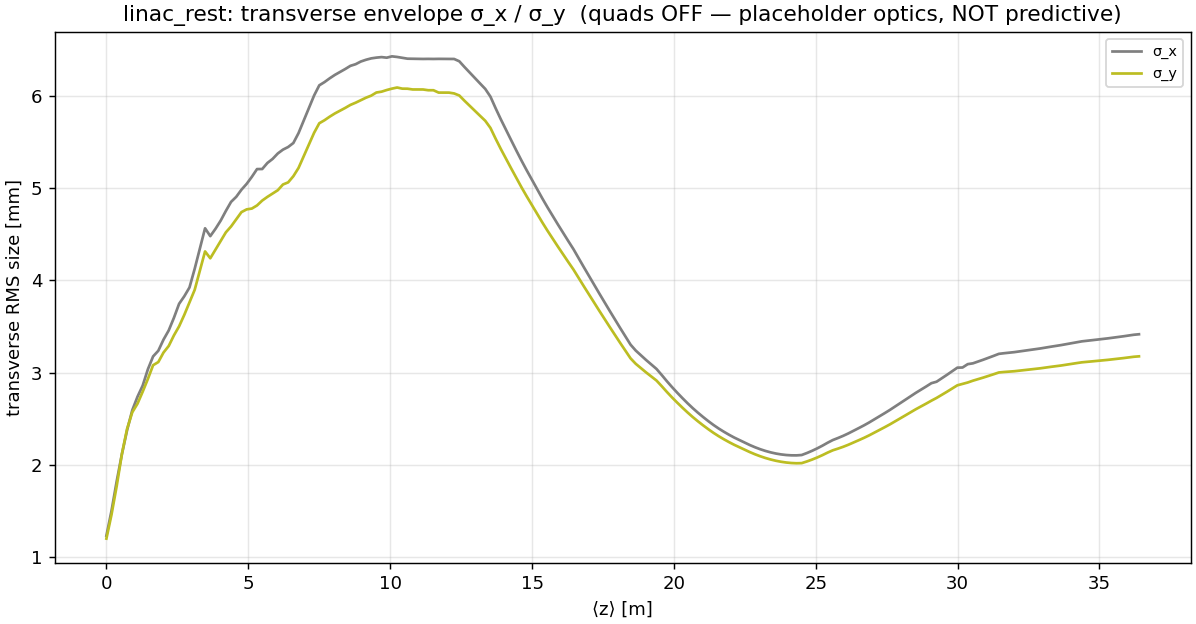
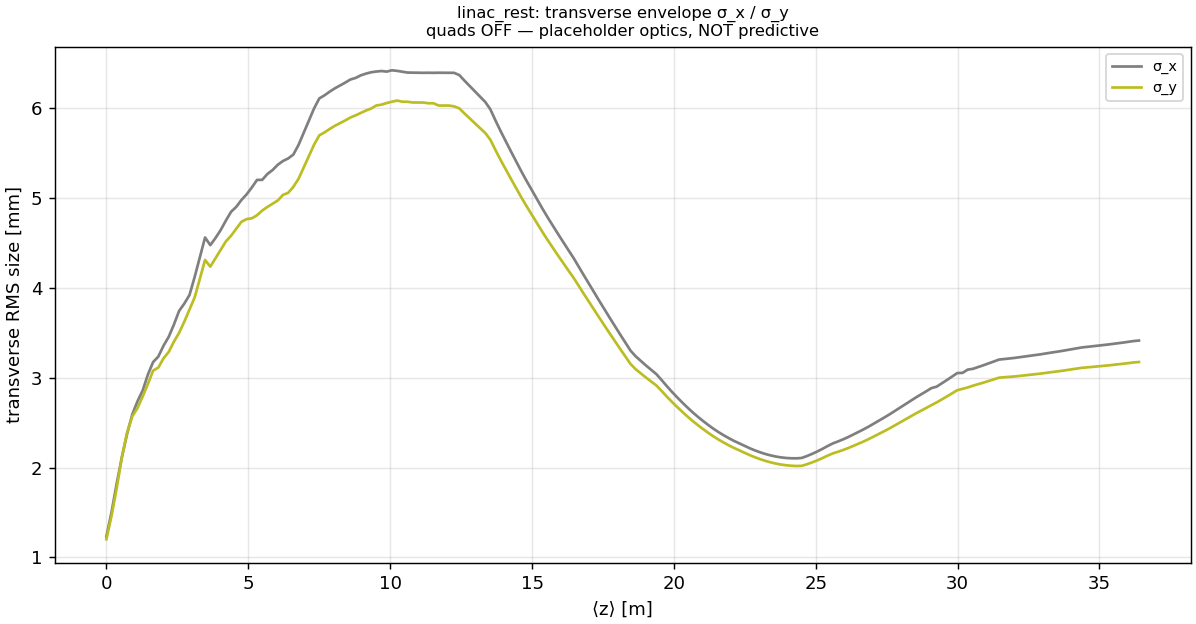
linac_rest: physics-review fixes (emittance label honesty + doc precision)
Apply the physics-review team's findings on PR #15 (no correctness bugs found;
the FODO doublet math, units, carry-over, and quads-OFF non-regression were all
independently verified):

- MAJOR: the quads-OFF emittance figure/gate/README claimed eps_n "~conserved",
  but the recorded vs-z eps_n sawtooths ~2.4x. Cross-examination established this
  is a fort.10N norm_emit diagnostic artifact at bore/section crossings (sigma_x
  stays smooth across the eps_n jumps => not physical growth), NOT conservation
  and NOT a real blow-up. Relabel honestly in emittance.png title,
  validate_run gate-4 print, the plot/validate docstrings, and README gate-4.
- MINOR: the QUADS_ON fodo_optics_quadson.png title was clipped off the right
  edge (the placeholder-optics caveat was unreadable). Split into a two-line,
  smaller-font title so the caveat is legible; regenerated the figure.
- LOW: corrected the thinness justification (the governing group is the half-quad
  phase sqrt(K1)*L_q/2 ~= 0.46 rad / ~27 deg, not K1*L_q/2) and the gap-2 max
  phase advance (~67 deg, not ~56 deg) in README + helper docstring.
- LOW: added a SUPERSEDED banner to linac_rest_quads_plan.md (the plan body is
  the rejected single-quad/mu=72 design; as-built is the thick-lens doublet/mu=50).

Headline quads-OFF run re-confirmed unchanged: exit <KE> 307.97 MeV,
transmission 0.7851.

diff --git a/linac_rest/plot_linac_rest.py b/linac_rest/plot_linac_rest.py
@@ -11,8 +11,9 @@ linac_rest/results/:
                             to ≈308 MeV at 11 MW (307.97 survivors).
   2. energy_spread.png    — σ_KE and the relative spread σ_KE/⟨KE⟩ vs ⟨z⟩ (the relative
                             spread adiabatically shrinks as ⟨KE⟩ grows).
-  3. emittance.png        — normalized emittance εn,x / εn,y vs ⟨z⟩ (quads OFF ⇒ near-
-                            conserved; flags numerical growth). The headline beam.
+  3. emittance.png        — normalized emittance εn,x / εn,y vs ⟨z⟩ (quads OFF: εn rises ~2.4×,
+                            a fort.10N norm_emit diagnostic artifact at bore/section crossings —
+                            σ_x stays smooth across the jumps ⇒ NOT physical growth, NOT conserved).
   4. section_gains.png     — per-section achieved vs target ΔE bar chart (from the
                             calibration table) — the §5 gate-1 visual.
   5. fodo_optics.png       — transverse envelope σ_x AND σ_y vs ⟨z⟩, titled by quad state.
@@ -156,17 +157,23 @@ def main():
 
     quads_on = summ.get("quads_on", False)
 
-    # 3) normalized emittance vs z (headline quads OFF ⇒ ~conserved; quads ON ⇒ chromatic growth)
+    # 3) normalized emittance vs z. NOTE: quads-OFF εn is NOT conserved — the recorded εn,x/y rise
+    #    ~2.4× over the line, a fort.10N norm_emit diagnostic artifact at bore/section crossings
+    #    (σ_x stays smooth across the εn jumps ⇒ not physical growth). Quads-ON adds real chromatic
+    #    growth on top of the same artifact, so its εn figure conflates the two.
     fig, ax = plt.subplots(figsize=(9.2, 4.8), constrained_layout=True)
     ax.plot(z, enx * 1e6, "-", color="C5", label="ε_n,x")
     ax.plot(z, eny * 1e6, "-", color="C6", label="ε_n,y")
     ax.set_xlabel("⟨z⟩ [m]")
     ax.set_ylabel("normalized emittance [mm·mrad]")
-    # quads ON: off-energy particles get different K1·(1/Bρ) focusing ⇒ chromatic εn growth
-    # (tens of % expected, NOT a failure — only a runaway is); quads OFF: RF + drift only.
-    ax.set_title("linac_rest: normalized emittance  "
-                 + ("(QUADS ON — chromatic growth from energy-dependent focusing)" if quads_on
-                    else "(quads OFF ⇒ RF + drift only)"))
+    # quads ON: off-energy particles get different K1·(1/Bρ) focusing ⇒ real chromatic εn growth
+    # (tens of % expected, NOT a failure — only a runaway is), on top of the same fort.10N artifact.
+    # quads OFF: the ~2.4× εn rise is that diagnostic artifact (σ_x smooth ⇒ not physical), not growth.
+    ax.set_title("linac_rest: normalized emittance\n"
+                 + ("QUADS ON — chromatic growth (energy-dependent focusing) + fort.10N εn artifact"
+                    if quads_on
+                    else "quads OFF — εn rises ~2.4×: a fort.10N diagnostic artifact, not physical"),
+                 fontsize=9)
     ax.legend(fontsize=8)
     ax.grid(alpha=0.3)
     fig.savefig(os.path.join(RESULTS, "emittance.png"), dpi=130)
@@ -205,10 +212,13 @@ def main():
     # see title); QUADS OFF ⇒ no focusing, monotonic divergence (placeholder, NOT predictive).
     # μ is read from the summary (quad_phase_adv_deg) so the title can't drift from the helper default.
     mu_deg = summ.get("quad_phase_adv_deg", 50.0)
-    ax.set_title("linac_rest: transverse envelope σ_x / σ_y  "
-                 + (f"(QUADS ON — derived energy-scaled FODO, nominal μ={mu_deg:g}°; "
-                    "H/V doublet (±g qL/2 halves), both planes contained; A→T calib missing)" if quads_on
-                    else "(quads OFF — placeholder optics, NOT predictive)"))
+    # Two-line title so the placeholder-optics caveat stays legible (a single long line was
+    # clipped off the right edge of the figure).
+    ax.set_title("linac_rest: transverse envelope σ_x / σ_y\n"
+                 + (f"QUADS ON — energy-scaled H/V-doublet FODO (μ={mu_deg:g}°), both planes "
+                    "contained · placeholder optics, A→T calib missing" if quads_on
+                    else "quads OFF — placeholder optics, NOT predictive"),
+                 fontsize=9)
     ax.legend(fontsize=8)
     ax.grid(alpha=0.3)
     fig.savefig(os.path.join(RESULTS, "fodo_optics.png"), dpi=130)

diff --git a/linac_rest/calibration.py b/linac_rest/calibration.py
@@ -337,7 +337,9 @@ def validate_run(I, P_in, power_mw=None, calib=None, require_gates=False):
          achieved ≈308 MeV — 307.97 survivors through the real bore / 309.2 full-beam).
       3. σ_KE absolute (NOT conserved — grows ~3.9× from second-order crest curvature) and
          relative (still shrinks, ⟨KE⟩ grows faster). Diagnostic only.
-      4. normalized emittance εn,x / εn,y in vs out (near-conserved, quads OFF). Diagnostic.
+      4. normalized emittance εn,x / εn,y in vs out — diagnostic. NOTE: quads-OFF εn is NOT
+         conserved; the recorded vs-z εn sawtooths ~2.4× — a fort.10N norm_emit artifact at
+         bore/section crossings (σ_x stays smooth across the jumps ⇒ not physical growth).
       5. beam reached final zedge: I.stat("mean_z")[-1] ≈ Σ lattice length (catches Ntstep
          truncation, which falsely reports finished=True).
       6. min captured KE ⇒ β > 0.999 (justifies the rigid-crest no-slip assumption).
@@ -433,7 +435,8 @@ def validate_run(I, P_in, power_mw=None, calib=None, require_gates=False):
     print(f"[ -- ] 3. σ_KE  in {sig_ke_in:.2f} → out {sig_ke_out:.2f} MeV; "
           f"rel spread {gates['rel_spread_in']*100:.1f}% → {gates['rel_spread_out']*100:.1f}%")
     print(f"[ -- ] 4. εn growth  x {gates['emit_x_growth']*100:+.1f}%  "
-          f"y {gates['emit_y_growth']*100:+.1f}%  (quads OFF ⇒ ~conserved)")
+          f"y {gates['emit_y_growth']*100:+.1f}%  (diagnostic; the quads-OFF ~2.4× is a fort.10N "
+          f"εn artifact at bore/section crossings, σ_x smooth ⇒ not physical)")
     print(f"[{mark(gates['mean_z_ok'])}] 5. beam reached z = {mean_z_reached:.2f} m "
           f"(Σ lattice {z_expected:.2f} m — catches Ntstep truncation)")
     print(f"[{mark(gates['beta_min_ok'])}] 6. min captured KE {ke_min_mev:.1f} MeV ⇒ "

diff --git a/linac_rest/build_linac_rest_lattice.py b/linac_rest/build_linac_rest_lattice.py
@@ -229,7 +229,7 @@ def fodo_quad_gradients(*, phase_adv_deg=50.0, k1_max=14.0, mc2_mev=0.510998950,
     same phase advance. That plane symmetry is the whole point of going to the doublet.
 
     **Recipe (exact thick-lens cell matrix — the thin-lens (K1·l)²·d doublet formula is NOT used,
-    it is unreliable here because K1·L_q/2 ≈ 0.7–1.4, i.e. the half-quads are not thin):**
+    it is unreliable here because the half-quad phase √K1·(L_q/2) ≈ 0.46 rad (~27°) is not small):**
 
         cell_i   = drift(gap/2) · (+K1 half-quad, L_q/2) · (−K1 half-quad, L_q/2) · drift(gap/2)
                    · drift(L_section(i+1))                  (RF section as a field-free drift)
@@ -238,7 +238,7 @@ def fodo_quad_gradients(*, phase_adv_deg=50.0, k1_max=14.0, mc2_mev=0.510998950,
         g_i      = (-1)**i · K1_i · Bρ_i                   [T/m]   (energy-scaling enters via Bρ)
 
     **μ defaults to 50°.** The uniform design μ is bounded by the WEAKEST cell (gap 2 — the short
-    2.94 m CEA-2 section — tops out near 56°), so 50° is reachable by every gap and sits mid-band
+    2.94 m CEA-2 section — tops out near 67°), so 50° is reachable by every gap and sits mid-band
     (0–180° stable). A μ sweep (45/50/55°, doublet) showed the result is robust: exit ⟨KE⟩ stays
     ≈308–310 MeV (gate 2 PASS) and transmission clusters at 77.6–78.2 % with a bounded oscillating
     σ_x/σ_y (max RMS ≈4.4 mm, well inside the 9.9 mm exit bore) — 50° gives the best transmission.

diff --git a/linac_rest/README.md b/linac_rest/README.md
@@ -138,13 +138,13 @@ true value is higher). The robust deliverable is the energy gain, not the transm
     scrape — that was the over-pinched first attempt, 49–58 % transmission). The lead-pole sign
     alternates gap-to-gap.
   - K1 is solved from the **exact thick-lens cell matrix** (`_solve_doublet_k1`), NOT a thin-lens
-    formula — the half-quads are not thin (K1·L_q/2 ≈ 0.7–1.4). The cell is
+    formula — the half-quad phase `√K1·(L_q/2) ≈ 0.46 rad (~27°)` is not small. The cell is
     `drift(gap/2)·(+K1 half-quad, L_q/2)·(−K1 half-quad, L_q/2)·drift(gap/2)·drift(L_section(i+1))`
     with the following **RF section treated as a field-free drift**; per gap, K1_i solves
     `cos μ = ½·Tr(cell_i)` by bisection (the symmetric ± doublet gives the same `½·Tr` in both
     planes ⇒ both get μ), then `g_i = (-1)**i · K1_i · Bρ_i` [T/m]. `k1_max` (=14) caps the bracket;
     a cell that can't reach μ within it falls back to `k1_max`. μ=50° is reachable by every gap
-    (the weakest, gap 2 / short CEA-2, tops out near 56°) and sits mid-band (0–180° stable).
+    (the weakest, gap 2 / short CEA-2, tops out near 67°) and sits mid-band (0–180° stable).
 
   Returns **length-`N_SECTIONS` (7)**: the first 6 are the placed quads (`quad2…quad7`, one after
   every section except the last, each placed as an `a`/`b` doublet); the **7th (Q8, after the final
@@ -246,7 +246,9 @@ from a full-bunch full-scan calibration); `ImpactTexe` is serial.
    at 282 MeV total gain). The **relative** spread still shrinks (20.0% → 6.9%) only because ⟨KE⟩
    grows faster (27 → ~308 MeV, ~11.4×) than σ_KE. This affects spread only — calibration uses
    ⟨KE⟩, so the energies/scales are unaffected;
-4. normalized emittance εn,x/εn,y in vs out (quads OFF ⇒ ~conserved) — diagnostic;
+4. normalized emittance εn,x/εn,y in vs out — diagnostic. NOTE: quads-OFF εn is **not**
+   conserved; the recorded vs-z εn sawtooths ~2.4× — a fort.10N `norm_emit` artifact at
+   bore/section crossings (σ_x stays smooth across the jumps ⇒ not physical growth);
 5. beam reached the final zedge (`I.stat("mean_z")[-1] ≈ Σ L`) — hard, catches Ntstep
    truncation (which falsely reports `finished=True`);
 6. min captured KE ⇒ β > 0.999 — hard, justifies no-slip;

diff --git a/linac_rest_quads_plan.md b/linac_rest_quads_plan.md
@@ -1,5 +1,12 @@
 # linac_rest — Implement the Quads (FODO Focusing) Plan
 
+> **⚠️ SUPERSEDED IN IMPLEMENTATION.** This is the pre-revision design. The single-quad,
+> thin-lens, μ=72° approach below was found unable to focus both transverse planes and was
+> **replaced by a thick-lens H/V doublet at μ=50°** during implementation. The gradient table
+> here (~0.1–0.35 T/m) is NOT the as-built value (shipped ~1–2.7 T/m). For the as-built recipe
+> see `linac_rest/README.md` → *Space charge & quads* and `fodo_quad_gradients`/`_solve_doublet_k1`
+> in `linac_rest/build_linac_rest_lattice.py`. Kept as a historical record of the planning phase.
+
 ## Goal & scope
 
 Turn the currently-inert quadrupoles (present at real tabulated lengths but `b1_gradient = 0`) into a working FODO focusing lattice that actually contains the beam through Cornell linac sections 2–8. The headline run **stays quads-OFF** (energy result ≈308 MeV is the robust, quad-independent deliverable; transmission ≈78.5% remains the no-focusing LOWER BOUND). `QUADS_ON=True` becomes a real, contained-beam **exploratory** path: per-quad `b1_gradient` values are derived from accelerator optics (constant-phase-advance FODO design, scaled by local beam momentum) — NOT from measured quad current, since the A→T (current→field) calibration is undocumented (`details.md`, A→T-unknown / "correct order of magnitude" note ≈ line 188–194). Every QUADS_ON output stays labeled "placeholder optics — guessed-strength FODO, A→T undocumented." The deliverable is a focused, bounded σ_x(z) / σ_y(z) envelope and a higher transmission against the **real tapered bore** (the box `XYRAD_M` is never widened — un-gameable-transmission ruling).